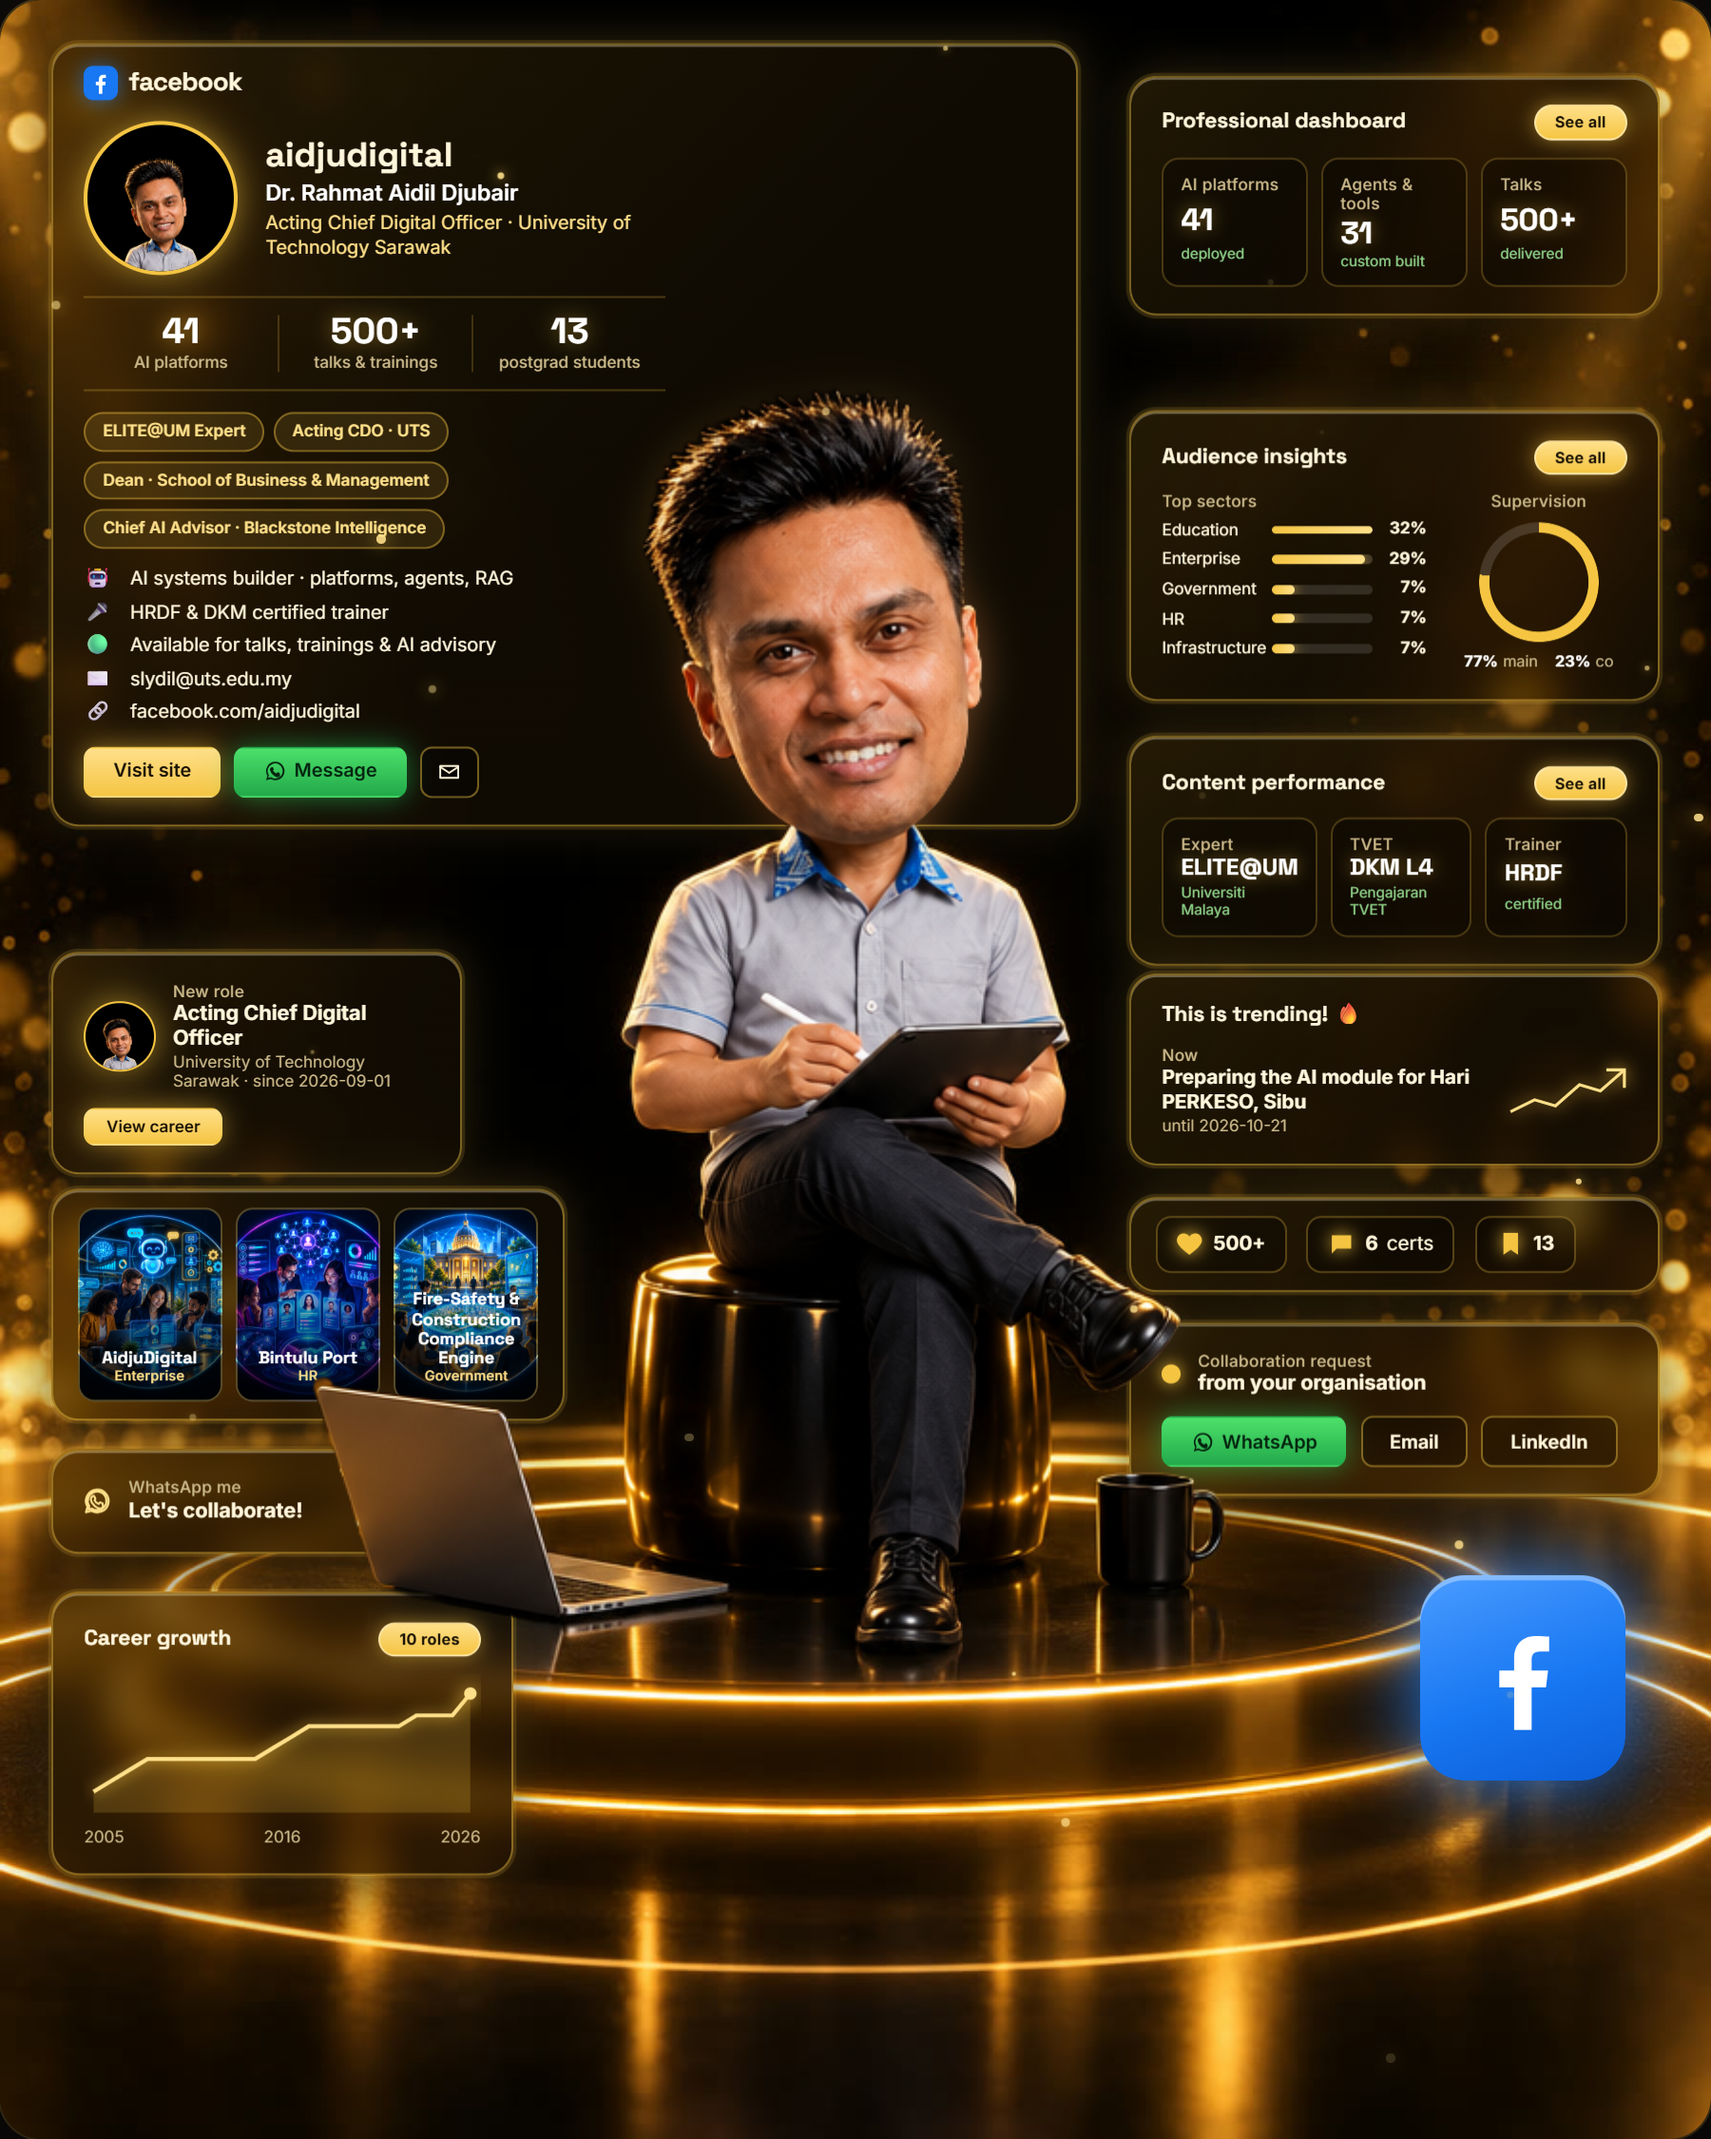
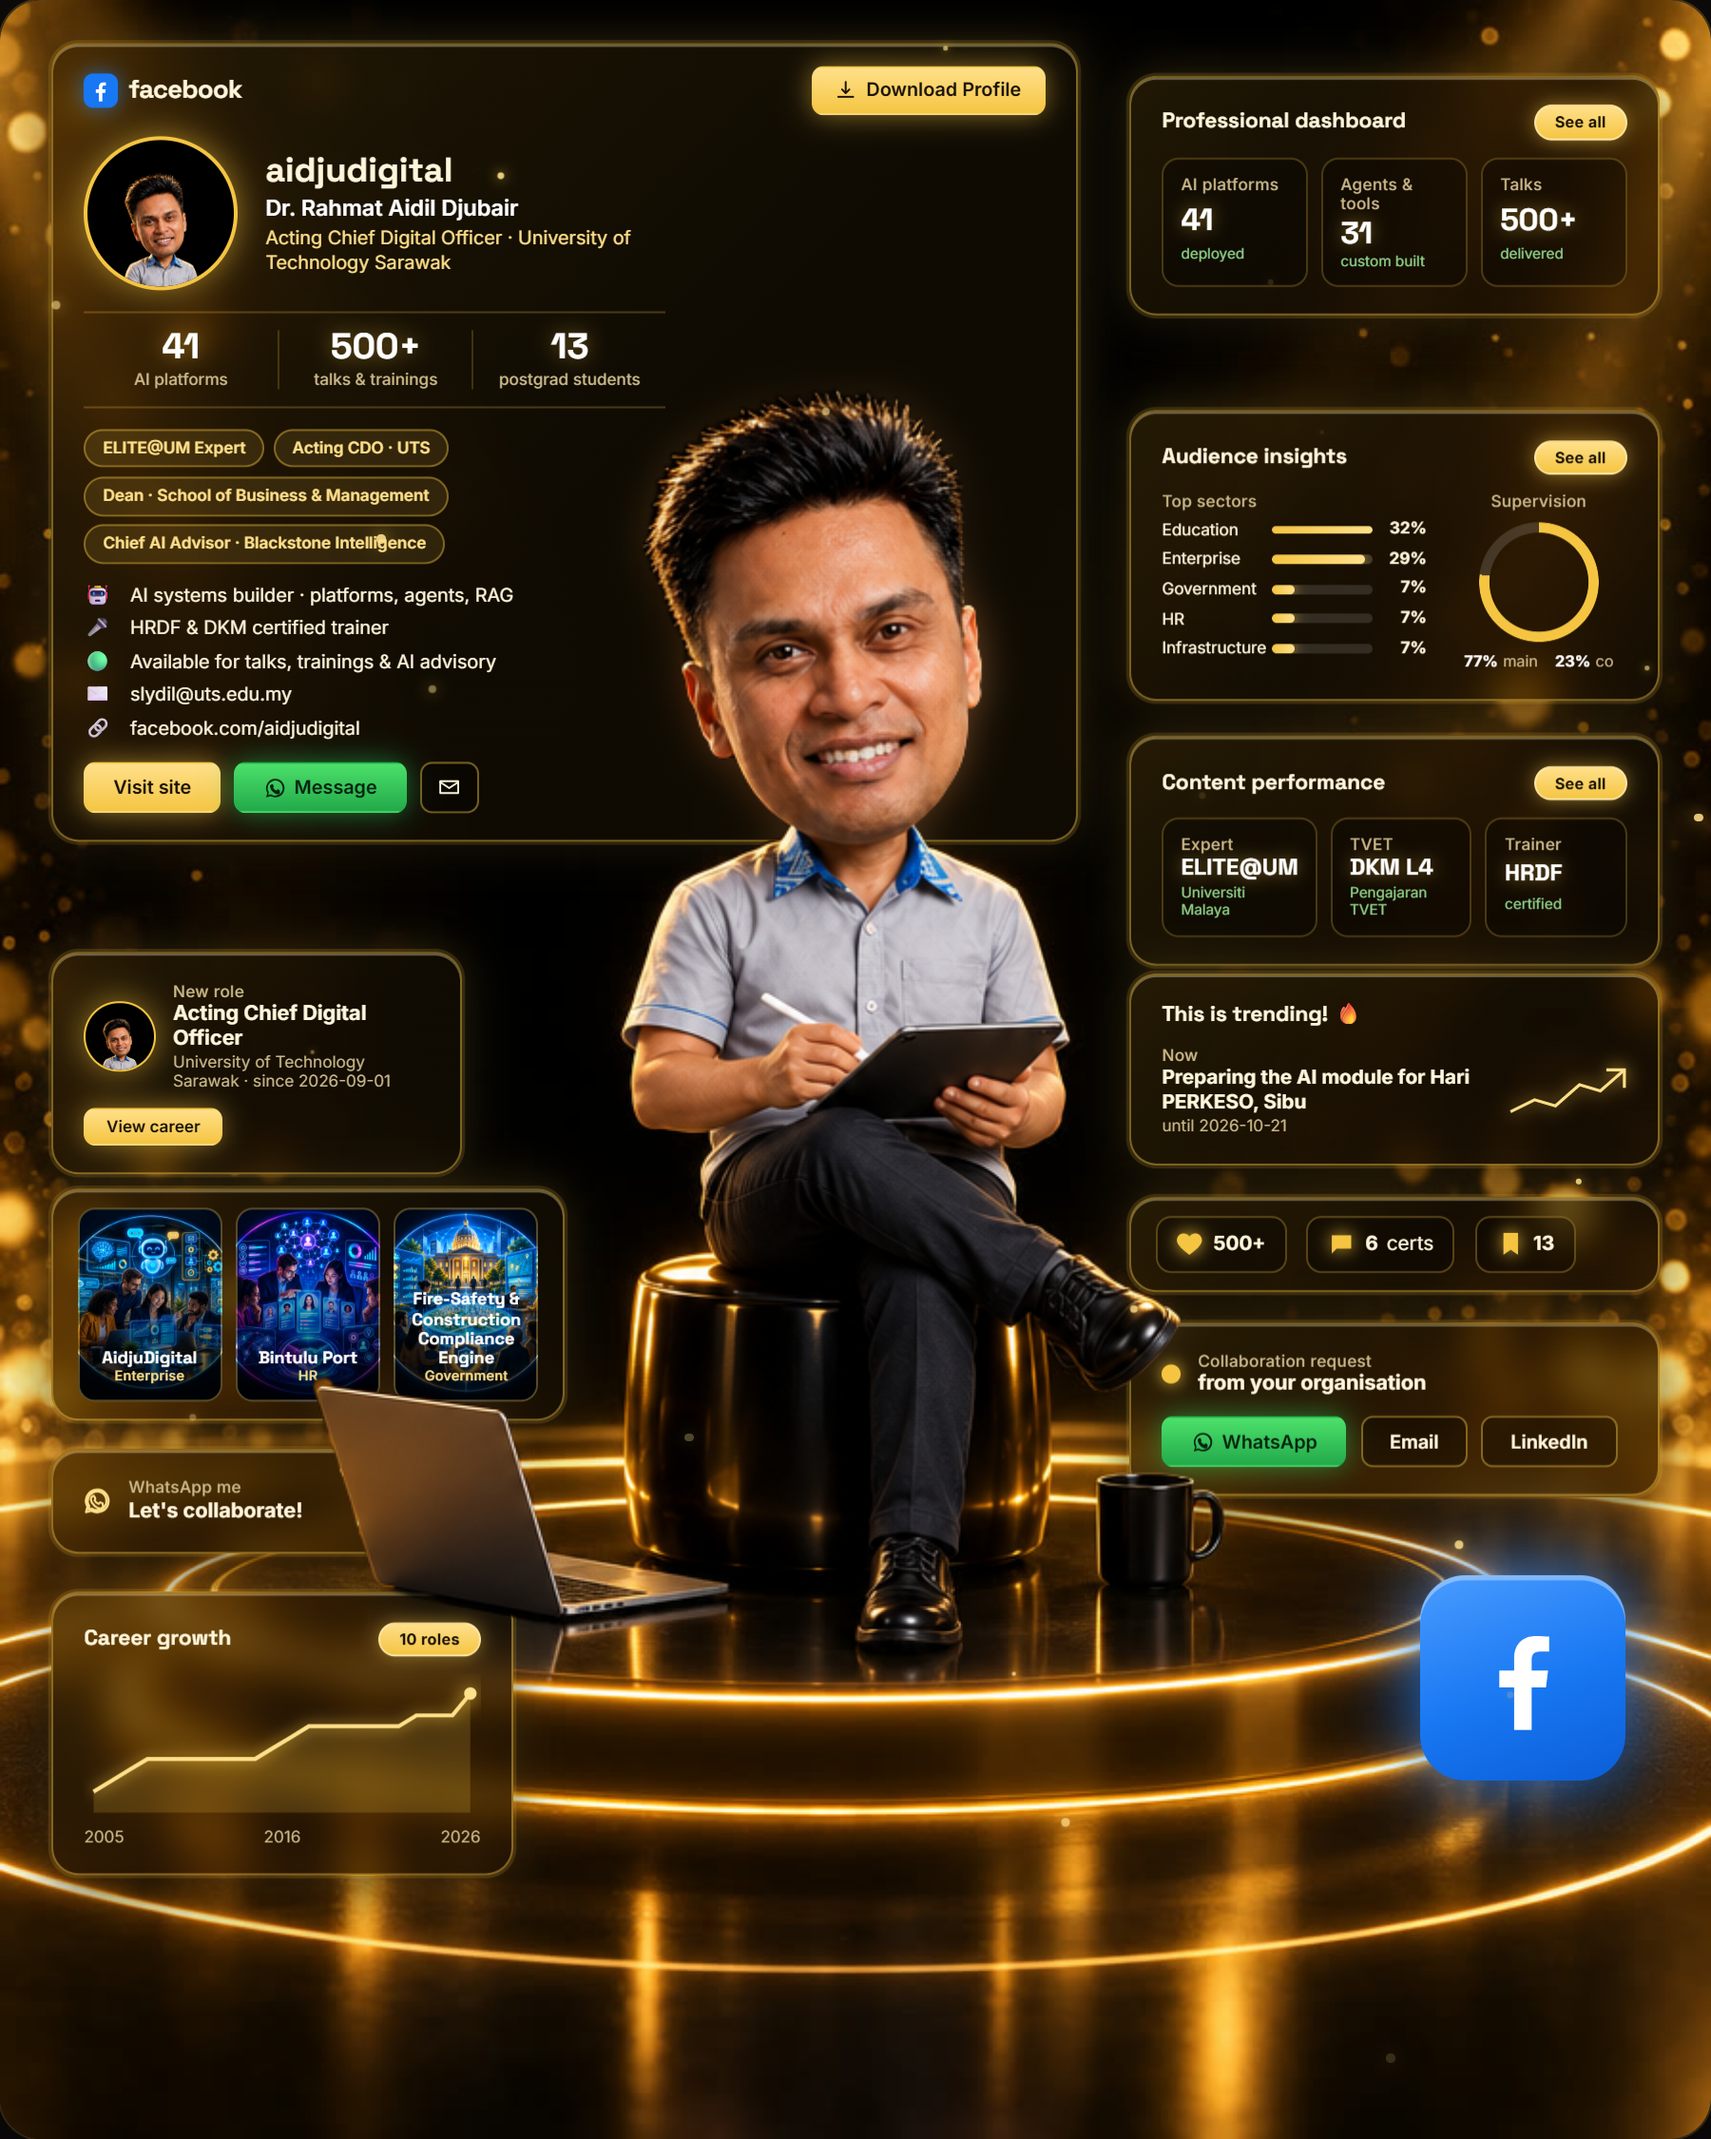
Resume: gold Download Profile button in the card header
Claude-Session: https://claude.ai/code/session_01Euzg3xWTRtpQsMbFwotNTs

Changed region(s): [[0.0311, 0.0311, 0.4356, 0.4044], [0.4667, 0.0, 0.6222, 0.0622], [0.56, 0.3733, 0.6222, 0.4044]]

diff --git a/resume/resume.js b/resume/resume.js
@@ -8,7 +8,7 @@
   const reduced = matchMedia('(prefers-reduced-motion: reduce)').matches;
 
   const SITE = '../', FB = 'https://www.facebook.com/aidjudigital';
-  const AV = 'avatar.png?v=9'; // bump with index.html when the avatar is re-cropped, so caches refetch
+  const AV = 'avatar.png?v=10'; // bump with index.html when the avatar is re-cropped, so caches refetch
   // WhatsApp deep link: Malaysian local number -> international, no punctuation (016-772 5496 -> 60167725496)
   const waNumber = p => { const d = String(p || '').replace(/\D/g, ''); return d.startsWith('0') ? '6' + d : d; };
   const HELLO = "Hi Dr. Rahmat, I saw your digital resume and would like to talk about a talk / training / AI project.";
@@ -40,6 +40,7 @@
     mail: '<svg viewBox="0 0 24 24"><path d="M3 6h18v12H3z"/><path d="M3 7l9 6 9-6"/></svg>',
     fb: '<svg viewBox="0 0 24 24" fill="currentColor" stroke="none"><path d="M13.5 22v-8h2.7l.4-3.2h-3.1V8.8c0-.9.3-1.6 1.6-1.6h1.7V4.4c-.3 0-1.3-.1-2.5-.1-2.5 0-4.1 1.5-4.1 4.2v2.3H7.4V14h2.8v8z"/></svg>',
     check: '<svg viewBox="0 0 24 24" fill="currentColor" stroke="none"><path d="M12 2l2.4 2.2 3.2-.5 1 3.1 2.9 1.5-1.1 3 1.1 3-2.9 1.5-1 3.1-3.2-.5L12 22l-2.4-2.2-3.2.5-1-3.1-2.9-1.5 1.1-3-1.1-3 2.9-1.5 1-3.1 3.2.5z"/><path d="M8.5 12.2l2.3 2.3 4.7-4.9" fill="none" stroke="#1a1204" stroke-width="2.2" stroke-linecap="round" stroke-linejoin="round"/></svg>',
+    dl: '<svg viewBox="0 0 24 24"><path d="M12 3v11"/><path d="M8 11l4 4 4-4"/><path d="M4 19h16"/></svg>',
     wa: '<svg viewBox="0 0 24 24" fill="currentColor" stroke="none"><path d="M12 2a10 10 0 0 0-8.6 15.1L2 22l5-1.3A10 10 0 1 0 12 2zm0 18.2c-1.6 0-3.2-.4-4.5-1.3l-.3-.2-3 .8.8-2.9-.2-.3A8.2 8.2 0 1 1 12 20.2zm4.6-6.1c-.3-.1-1.5-.7-1.7-.8s-.4-.1-.6.1-.7.8-.8 1-.3.2-.6.1a6.7 6.7 0 0 1-3.3-2.9c-.2-.4.2-.4.6-1.2.1-.2 0-.4 0-.5l-.8-1.8c-.2-.5-.4-.4-.6-.4h-.5a1 1 0 0 0-.7.3A2.9 2.9 0 0 0 6.7 12a5 5 0 0 0 1 2.2 11.4 11.4 0 0 0 4.4 3.9c1.6.6 2.2.7 3 .6a2.6 2.6 0 0 0 1.7-1.2 2.1 2.1 0 0 0 .1-1.2z"/></svg>',
     spark: '<svg viewBox="0 0 24 24"><path d="M12 3l1.8 5.2L19 10l-5.2 1.8L12 17l-1.8-5.2L5 10l5.2-1.8z"/></svg>',
   };
@@ -57,7 +58,10 @@
     ['\u{1F517}', esc(FB.replace('https://www.', ''))],
   ].filter(Boolean);
   const profile = `<div class="p p--profile" style="${at('profile')}">
-    <span class="p__brand">${I.fb}<b>facebook</b></span>
+    <span class="p__top">
+      <span class="p__brand">${I.fb}<b>facebook</b></span>
+      ${P.cv ? `<a class="b b--gold b--dl" href="${SITE}${esc(P.cv)}" download>${I.dl}Download Profile</a>` : ''}
+    </span>
     <span class="prof">
       <span class="prof__avatar"><img src="${AV}" alt=""></span>
       <span class="prof__id">

diff --git a/resume/resume.css b/resume/resume.css
@@ -57,8 +57,11 @@ a { color: inherit; text-decoration: none; }
 /* profile card */
 .p--profile { padding-top: 1.2cqw; }
 /* keep the card's content in a left column so the character overlaps only empty card space */
-.p--profile > span:not(.p__brand) { max-width: 34cqw; }
-.p__brand { display: flex; align-items: center; gap: .6cqw; margin-bottom: 1.2cqw; font: 500 1.5cqw/1 var(--f-display); letter-spacing: -.02em; }
+.p--profile > span:not(.p__top) { max-width: 34cqw; } /* the header row spans the card; the rest stays left of the character */
+.p__top { display: flex; align-items: center; justify-content: space-between; gap: 1cqw; margin-bottom: 1.2cqw; }
+.b--dl { gap: .5cqw; padding: .7cqw 1.3cqw; }
+.b--dl svg { width: 1.3cqw; height: 1.3cqw; fill: none; stroke: currentColor; stroke-width: 2; }
+.p__brand { display: flex; align-items: center; gap: .6cqw; font: 500 1.5cqw/1 var(--f-display); letter-spacing: -.02em; }
 .p__brand svg { width: 2cqw; height: 2cqw; fill: #fff; stroke: none; padding: .25cqw; border-radius: .55cqw; background: #1877f2; box-shadow: 0 0 1.2cqw rgba(24, 119, 242, .6); }
 .prof { display: flex; gap: 1.6cqw; align-items: center; }
 .prof__avatar { flex: none; width: 9cqw; height: 9cqw; border-radius: 50%; overflow: hidden; border: .3cqw solid var(--gold); box-shadow: 0 0 2cqw rgba(245, 197, 66, .6); background: #000; }
@@ -170,7 +173,10 @@ a { color: inherit; text-decoration: none; }
   .trend { grid-template-columns: 1fr 72px; }
   .reacts > span { padding: 8px 12px; } .reacts--one { font-size: 18px; }
   .p--fb { display: none; } /* footer carries the Facebook link on phones */
-  .p--profile > span:not(.p__brand) { max-width: none; }
+  .p--profile > span:not(.p__top) { max-width: none; }
+  .p__top { gap: 8px; margin-bottom: 12px; }
+  .b--dl { padding: 8px 12px; font-size: 12.5px; gap: 6px; }
+  .b--dl svg { width: 15px; height: 15px; }
   .thumb b { font-size: 12px; }
   .b--wa svg, .b--sq svg { width: 16px; height: 16px; }
   .b--sq { padding: 8px 10px; }

diff --git a/resume/index.html b/resume/index.html
@@ -8,13 +8,13 @@
   <link rel="preconnect" href="https://fonts.googleapis.com">
   <link rel="preconnect" href="https://fonts.gstatic.com" crossorigin>
   <link rel="stylesheet" href="https://fonts.googleapis.com/css2?family=Inter:wght@400;500;600;700&family=JetBrains+Mono:wght@400;600&family=Space+Grotesk:wght@500;700&display=swap">
-  <link rel="stylesheet" href="resume.css?v=9">
+  <link rel="stylesheet" href="resume.css?v=10">
 </head>
 <body>
   <main class="poster" id="poster" aria-label="Digital resume of Dr. Rahmat Aidil Djubair">
-    <img class="poster__scene" src="scene.jpg?v=9" alt="" width="1024" height="1280">
+    <img class="poster__scene" src="scene.jpg?v=10" alt="" width="1024" height="1280">
     <div class="poster__ui" id="ui"></div>
-    <img class="poster__figure" src="figure.png?v=9" alt="Dr. Rahmat Aidil Djubair, caricature, seated with a tablet" width="1024" height="1280">
+    <img class="poster__figure" src="figure.png?v=10" alt="Dr. Rahmat Aidil Djubair, caricature, seated with a tablet" width="1024" height="1280">
     <div class="poster__sparks" aria-hidden="true"></div>
   </main>
   <p class="foot"><a href="../">Visit site</a> · <a href="../cv/Rahmat-Aidil-Profile.pdf" download>Download Profile</a> · <a href="https://wa.me/60167725496" rel="noopener" target="_blank">WhatsApp 016-772 5496</a> · <a href="mailto:slydil@uts.edu.my">slydil@uts.edu.my</a> · <a href="https://www.facebook.com/aidjudigital" rel="noopener" target="_blank">facebook.com/aidjudigital</a></p>
@@ -25,6 +25,6 @@
   <script src="../data/projects.js"></script>
   <script src="../data/academic.js"></script>
   <script src="../data/credentials.js"></script>
-  <script src="resume.js?v=9"></script>
+  <script src="resume.js?v=10"></script>
 </body>
 </html>
